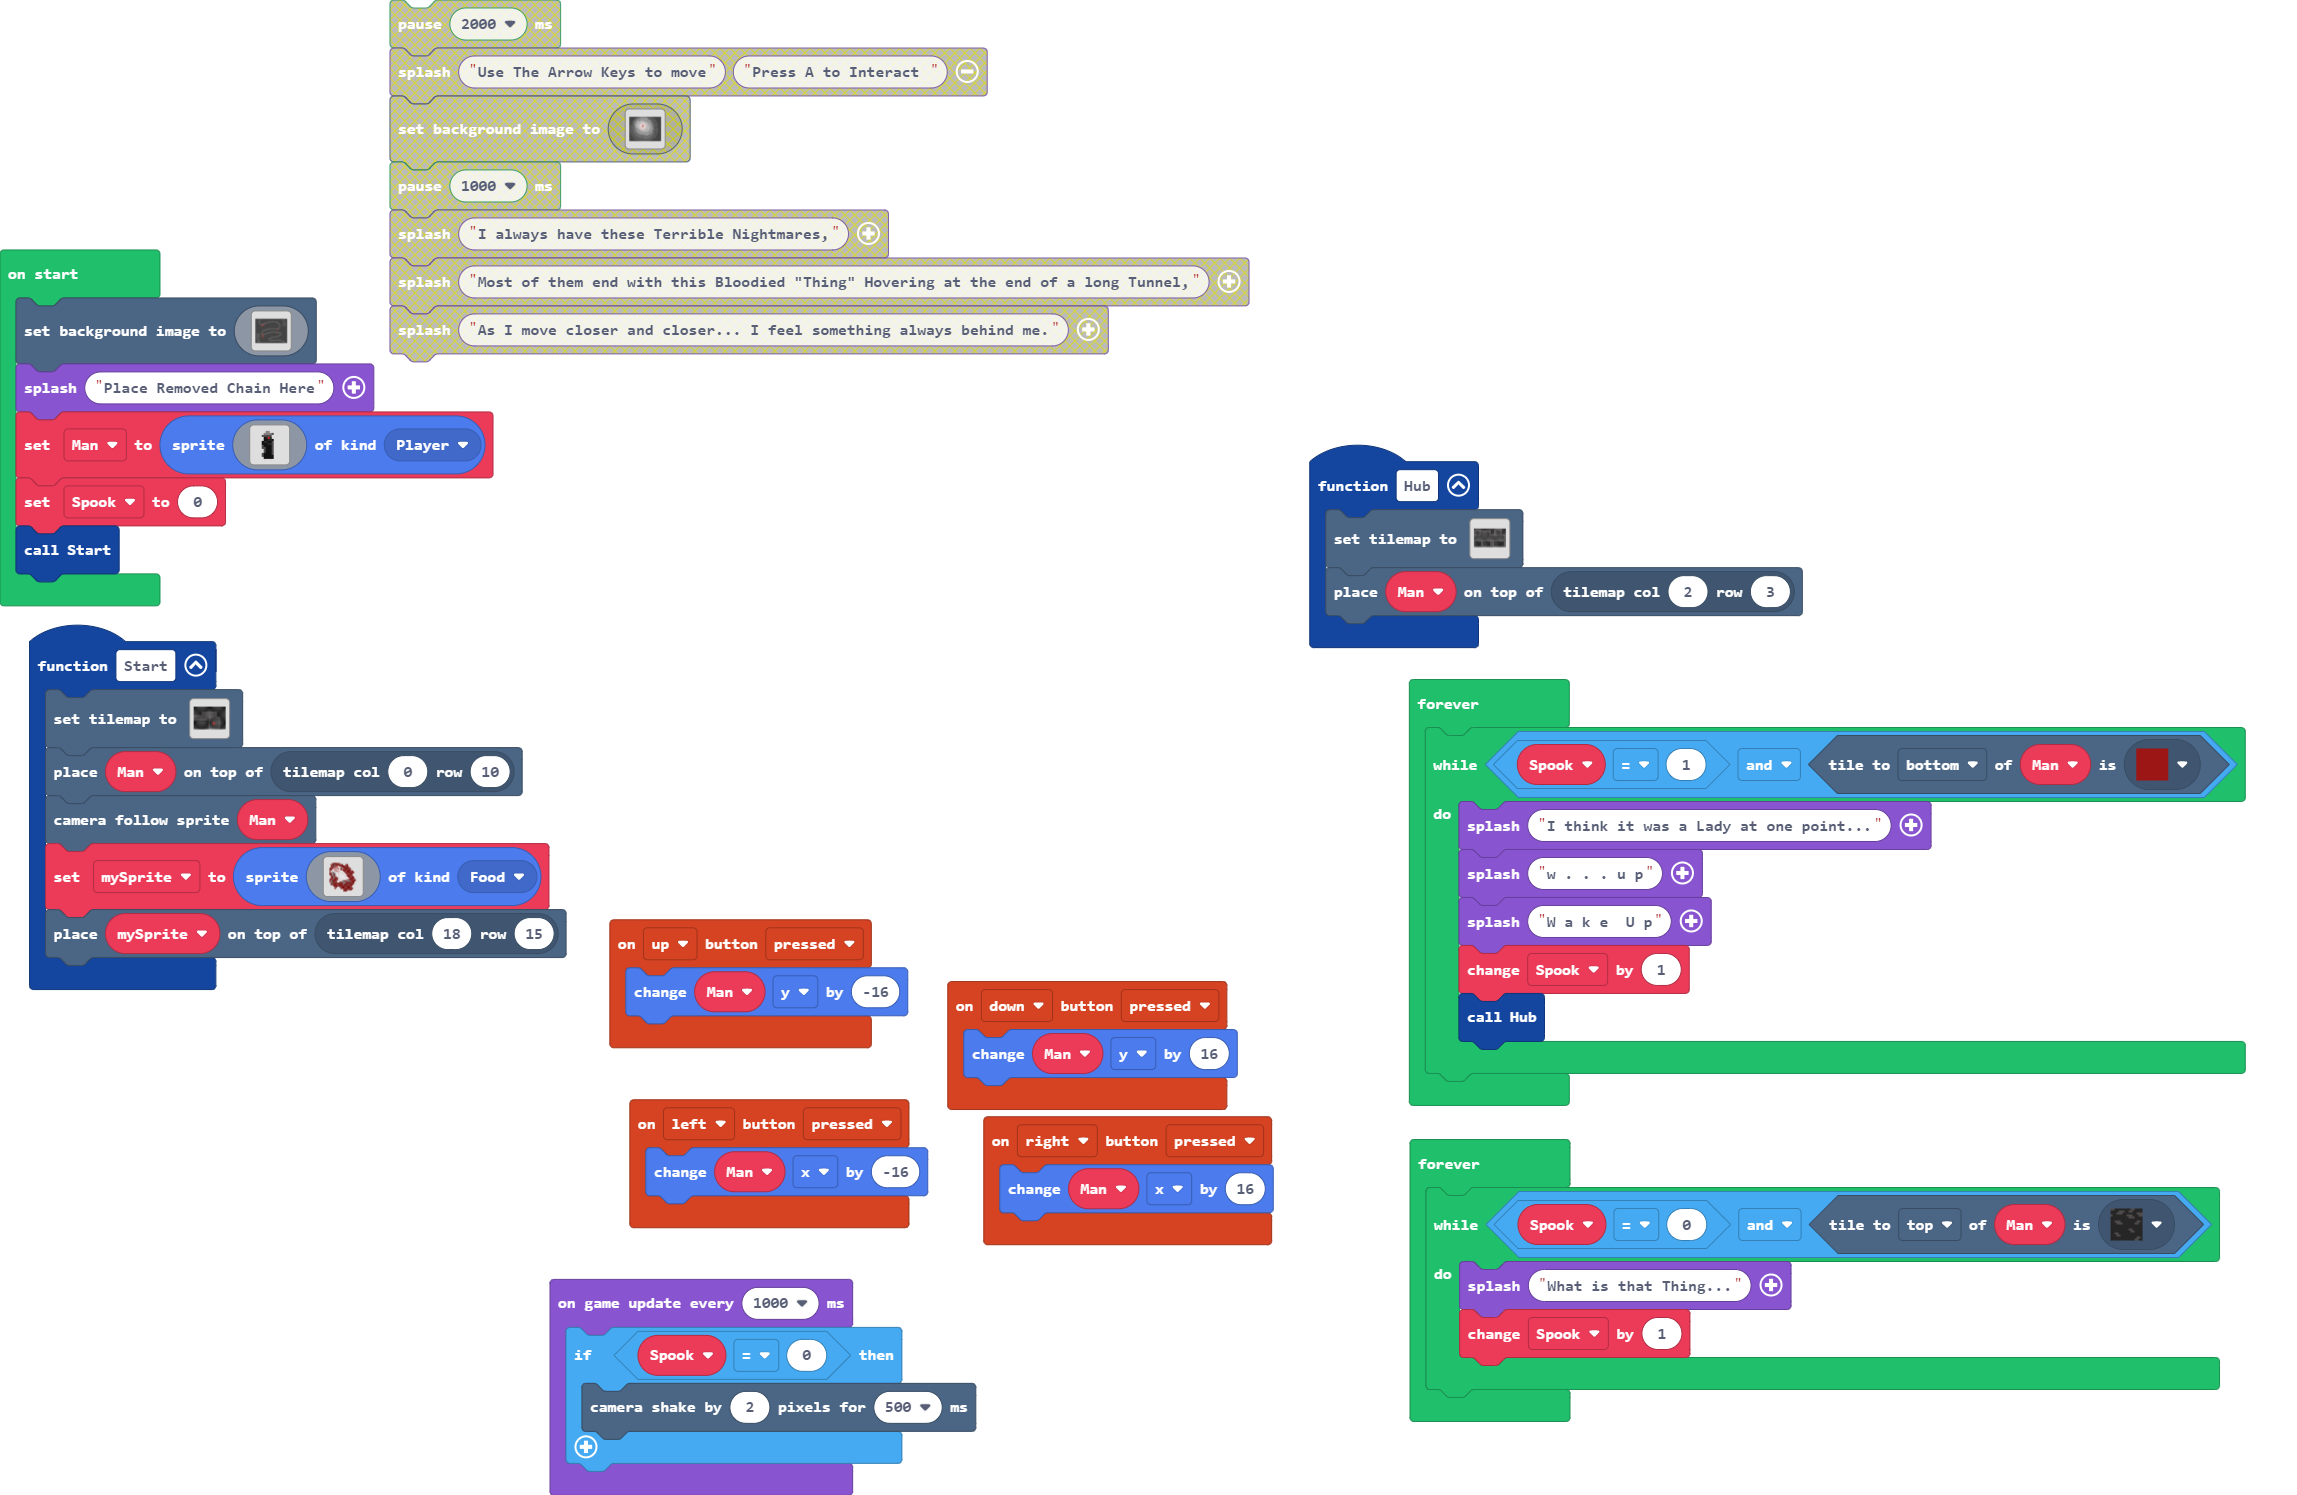
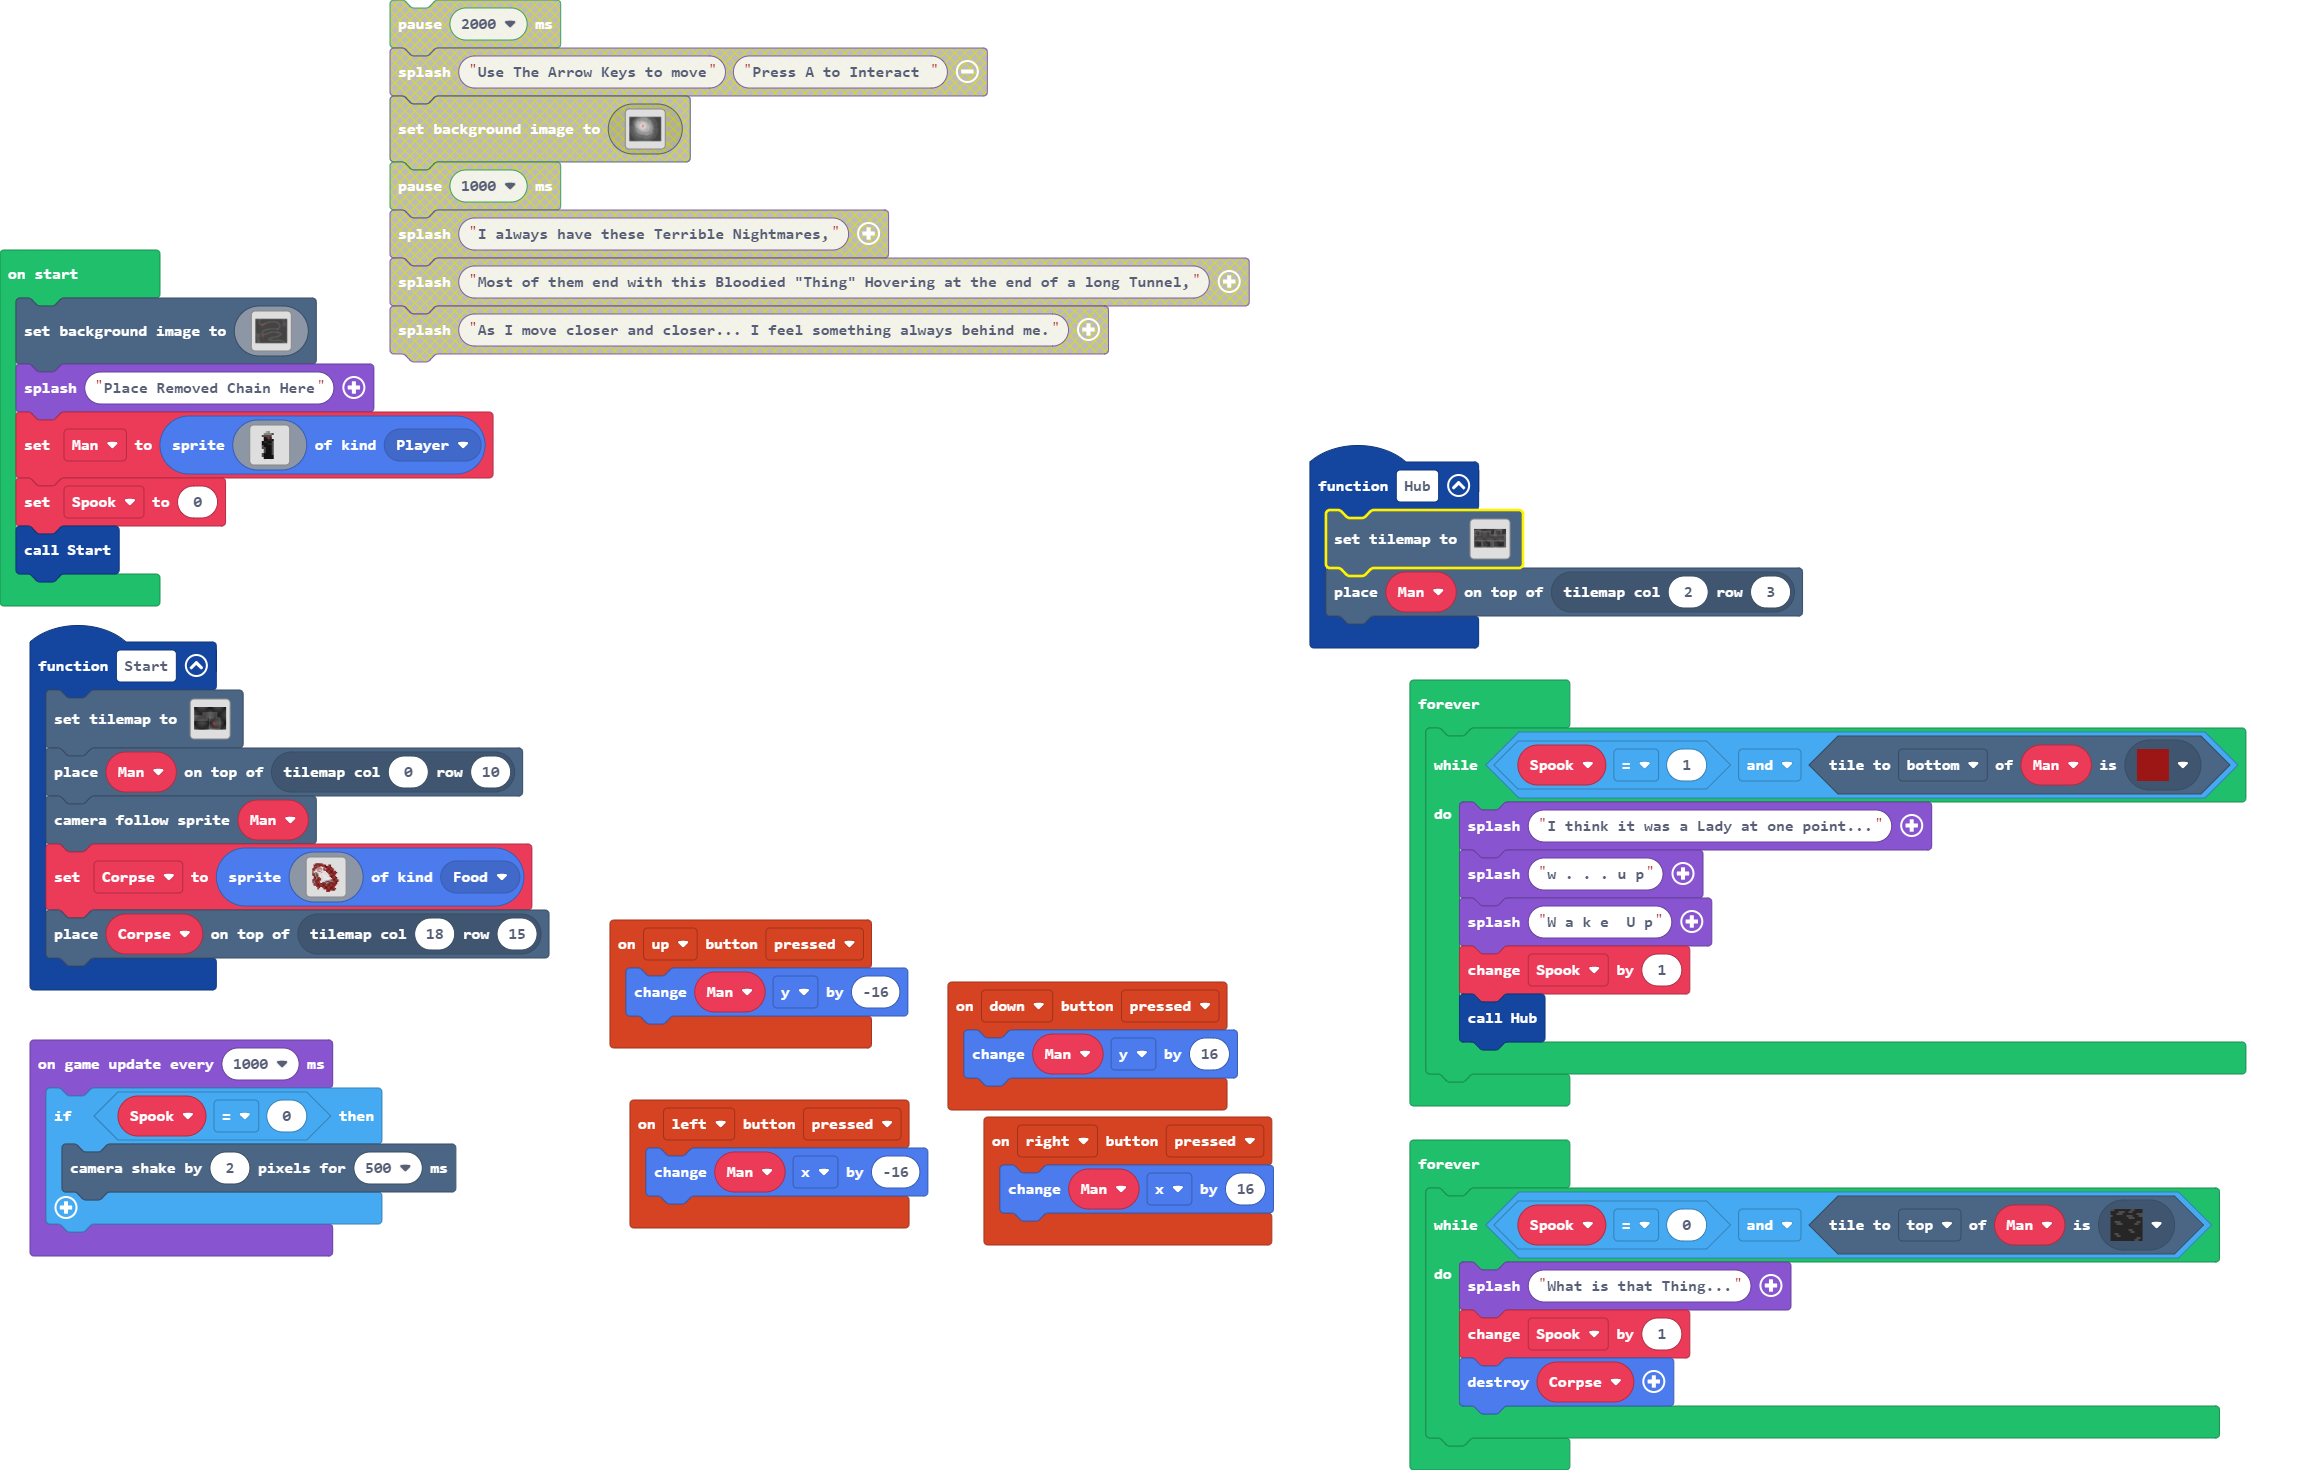
Gotta Make The Knife and Yellow Stuff Sprites

Changed region(s): [[0.0, 0.0, 0.5564, 1.0], [0.5564, 0.2755, 0.9891, 1.0], [0.0, 0.7041, 0.2164, 0.8571]]

diff --git a/tilemap.g.ts b/tilemap.g.ts
@@ -73,7 +73,17 @@ namespace myTiles {
     //% fixedInstance jres blockIdentity=images._tile
     export const tile36 = image.ofBuffer(hex``);
     //% fixedInstance jres blockIdentity=images._tile
-    export const tile33 = image.ofBuffer(hex``);
+    export const tile37 = image.ofBuffer(hex``);
+    //% fixedInstance jres blockIdentity=images._tile
+    export const tile38 = image.ofBuffer(hex``);
+    //% fixedInstance jres blockIdentity=images._tile
+    export const tile39 = image.ofBuffer(hex``);
+    //% fixedInstance jres blockIdentity=images._tile
+    export const tile40 = image.ofBuffer(hex``);
+    //% fixedInstance jres blockIdentity=images._tile
+    export const tile41 = image.ofBuffer(hex``);
+    //% fixedInstance jres blockIdentity=images._tile
+    export const tile42 = image.ofBuffer(hex``);
 
     helpers._registerFactory("tilemap", function(name: string) {
         switch(helpers.stringTrim(name)) {
@@ -102,7 +112,7 @@ namespace myTiles {
 ..............22222222222.....
 `, [myTiles.transparency16,myTiles.tile1,myTiles.tile6,myTiles.tile17,myTiles.tile2,myTiles.tile3,myTiles.tile4,myTiles.tile5,myTiles.tile7,myTiles.tile8,myTiles.tile9,myTiles.tile10,myTiles.tile11,myTiles.tile12,myTiles.tile13,myTiles.tile14,myTiles.tile15,myTiles.tile16,myTiles.tile18,myTiles.tile19,myTiles.tile20,myTiles.tile21,myTiles.tile22,myTiles.tile23,myTiles.tile24,myTiles.tile25,myTiles.tile26,myTiles.tile27,myTiles.tile28,myTiles.tile29,myTiles.tile30,myTiles.tile31,myTiles.tile32], TileScale.Sixteen);
             case "level2":
[2 lines of base64/hex data omitted]
 ...................................
 ...................................
 ...................................
@@ -123,7 +133,7 @@ namespace myTiles {
 ...................................
 ...................................
 ...................................
-`, [myTiles.transparency16,myTiles.tile1,myTiles.tile2,myTiles.tile3,myTiles.tile4,myTiles.tile5,myTiles.tile6,myTiles.tile8,myTiles.tile9,myTiles.tile10,myTiles.tile11,myTiles.tile12,myTiles.tile13,myTiles.tile14,myTiles.tile15,myTiles.tile16,myTiles.tile32,myTiles.tile34,myTiles.tile35,myTiles.tile18,myTiles.tile33,myTiles.tile36], TileScale.Sixteen);
+`, [myTiles.transparency16,myTiles.tile1,myTiles.tile2,myTiles.tile3,myTiles.tile4,myTiles.tile5,myTiles.tile6,myTiles.tile8,myTiles.tile9,myTiles.tile10,myTiles.tile11,myTiles.tile12,myTiles.tile13,myTiles.tile14,myTiles.tile15,myTiles.tile16,myTiles.tile32,myTiles.tile34,myTiles.tile35,myTiles.tile18,myTiles.tile36,myTiles.tile37,myTiles.tile38,myTiles.tile39,myTiles.tile40,myTiles.tile41,myTiles.tile42], TileScale.Sixteen);
         }
         return null;
     })
@@ -201,8 +211,18 @@ namespace myTiles {
             case "tile35":return tile35;
             case "myTile34":
             case "tile36":return tile36;
-            case "myTile31":
-            case "tile33":return tile33;
+            case "myTile35":
+            case "tile37":return tile37;
+            case "myTile36":
+            case "tile38":return tile38;
+            case "myTile37":
+            case "tile39":return tile39;
+            case "myTile38":
+            case "tile40":return tile40;
+            case "myTile39":
+            case "tile41":return tile41;
+            case "myTile40":
+            case "tile42":return tile42;
         }
         return null;
     })

diff --git a/images.g.ts b/images.g.ts
@@ -3,25 +3,6 @@ namespace myImages {
 
     helpers._registerFactory("image", function(name: string) {
         switch(helpers.stringTrim(name)) {
-            case "image2":
-            case "myImage0":return img`
-. . . . . . . . . . . . . . . . 
-. . . . . . 7 7 . . . . . . . . 
-. . . . . 7 7 7 7 8 . . . . . . 
-. . . . 8 8 8 8 8 . . . . . . . 
-. . . . . a 9 1 9 . . . . . . . 
-. . . . . a a 9 9 a . . . . . . 
-. . . . a 9 9 a a 8 . . . . . . 
-. . . . a a a 9 9 8 . . . . . . 
-. . . . 8 a a a a 8 . . . . . . 
-. . . . 8 8 a a a 8 . . . . . . 
-. . . . . 8 a a a 8 . . . . . . 
-. . . . . 8 a a a 8 . . . . . . 
-. . . . 8 a a a a 8 . . . . . . 
-. . . . 8 a a a a a . . . . . . 
-. . . . . a a a a a . . . . . . 
-. . . . . 5 . . 5 . . . . . . . 
-`;
             case "image1":
             case "myImage":return img`
 ..........................
@@ -50,6 +31,25 @@ namespace myImages {
 .............3333333......
 .............333..........
 ..........................
+`;
+            case "image2":
+            case "myImage0":return img`
+. . . . . . . . . . . . . . . . 
+. . . . . . 6 7 . . . . . . . . 
+. . . . . 7 7 7 7 8 . . . . . . 
+. . . . 8 8 8 8 8 . . . . . . . 
+. . . . . a 9 1 9 . . . . . . . 
+. . . . . a a 9 9 a . . . . . . 
+. . . . a 9 9 a a 8 . . . . . . 
+. . . . a a a 9 9 8 . . . . . . 
+. . . . 8 a a a a 8 . . . . . . 
+. . . . 8 8 a a a 8 . . . . . . 
+. . . . . 8 a a a 8 . . . . . . 
+. . . . . 8 a a a 8 . . . . . . 
+. . . . 8 a a a a 8 . . . . . . 
+. . . . 8 a a a a a . . . . . . 
+. . . . . a a a a a . . . . . . 
+. . . . . 5 . . 5 . . . . . . . 
 `;
         }
         return null;

diff --git a/main.ts b/main.ts
@@ -9,8 +9,8 @@ function Start () {
     tiles.setTilemap(tilemap`level1`)
     tiles.placeOnTile(Man, tiles.getTileLocation(0, 10))
     scene.cameraFollowSprite(Man)
-    mySprite = sprites.create(assets.image`myImage`, SpriteKind.Food)
-    tiles.placeOnTile(mySprite, tiles.getTileLocation(18, 15))
+    Corpse = sprites.create(assets.image`myImage`, SpriteKind.Food)
+    tiles.placeOnTile(Corpse, tiles.getTileLocation(18, 15))
 }
 controller.left.onEvent(ControllerButtonEvent.Pressed, function () {
     Man.x += -16
@@ -21,7 +21,7 @@ controller.right.onEvent(ControllerButtonEvent.Pressed, function () {
 controller.down.onEvent(ControllerButtonEvent.Pressed, function () {
     Man.y += 16
 })
-let mySprite: Sprite = null
+let Corpse: Sprite = null
 let Man: Sprite = null
 scene.setBackgroundImage(img`
[1 lines of base64/hex data omitted]
@@ -167,5 +167,6 @@ forever(function () {
     while (Spook == 0 && Man.tileKindAt(TileDirection.Top, assets.tile`myTile17`)) {
         game.splash("What is that Thing...")
         Spook += 1
+        Corpse.destroy()
     }
 })
